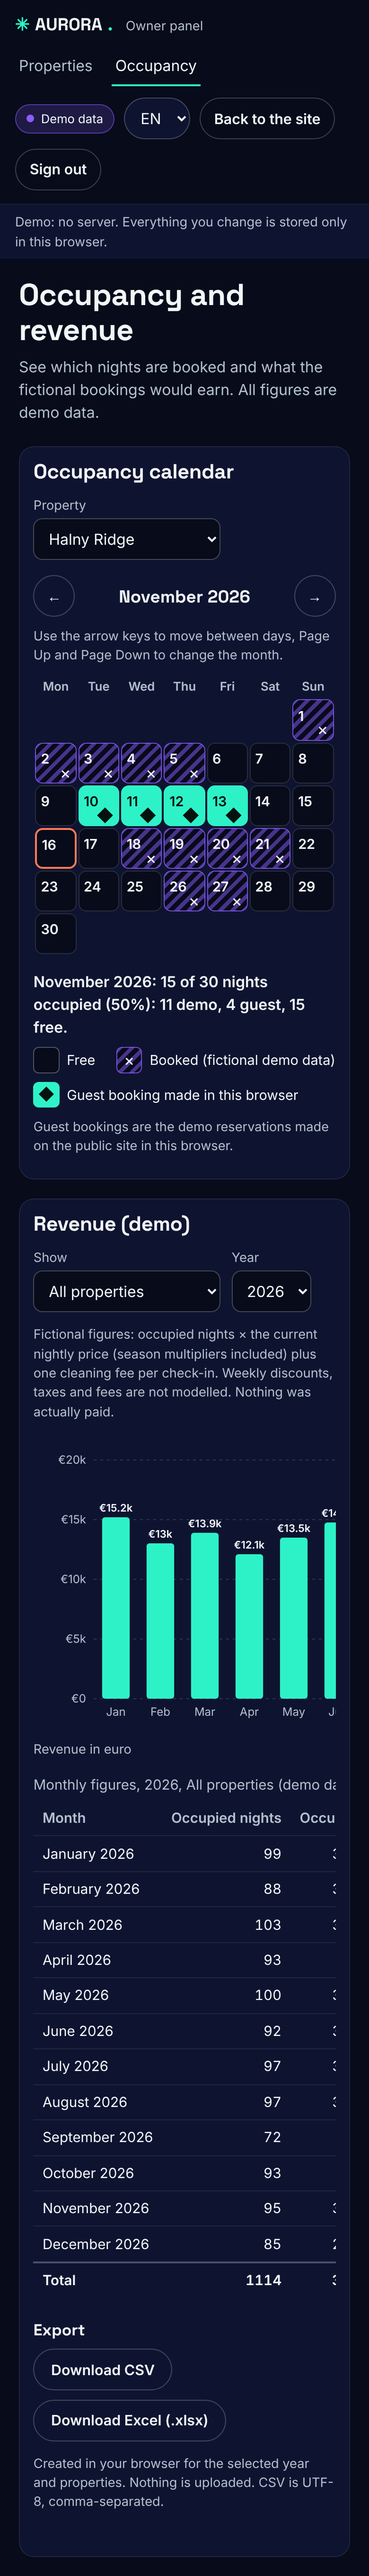
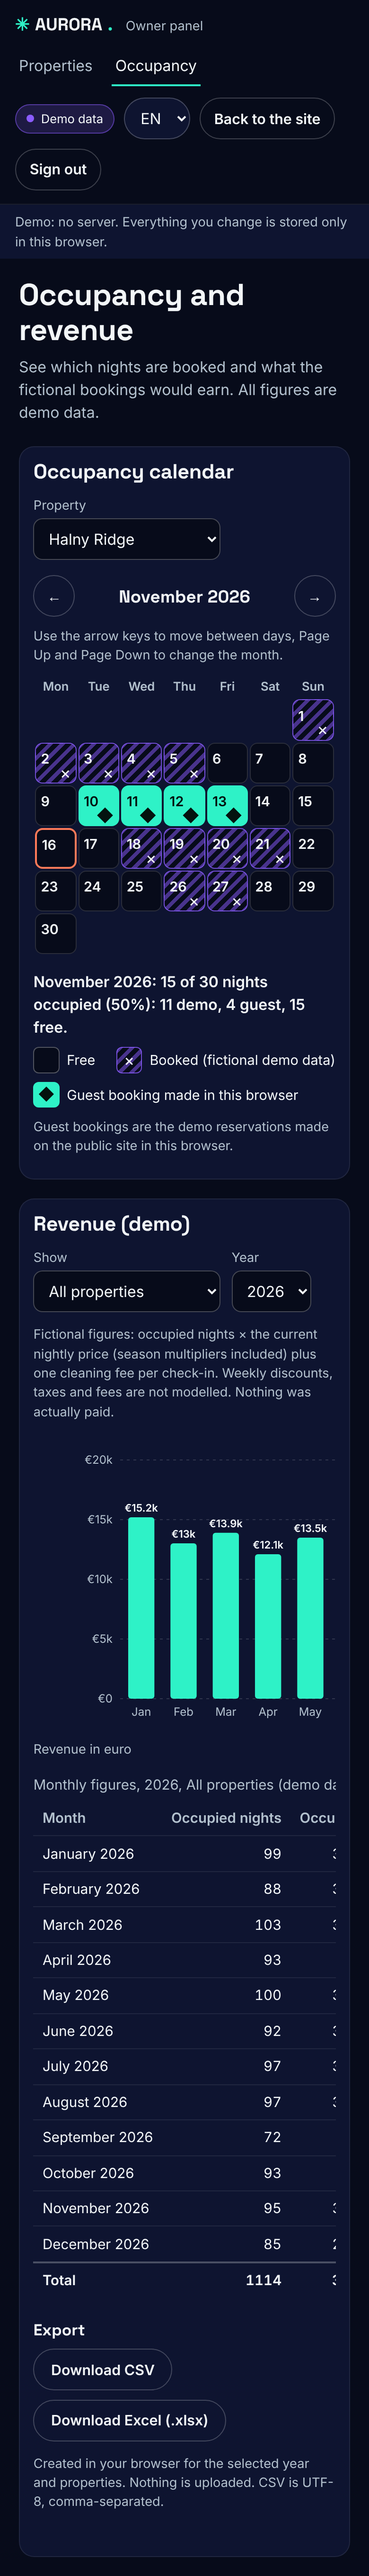
docs: final README (technologies, architecture), validation checklist, Lighthouse; fix chart label clipping
Claude-Session: https://claude.ai/code/session_01LrAHejfKaRSWVq6ha1feSK

Changed region(s): [[0.2769, 0.5594, 0.9231, 0.6837]]

diff --git a/apps/admin/src/app/features/occupancy/revenue.ts b/apps/admin/src/app/features/occupancy/revenue.ts
@@ -22,7 +22,7 @@ import { OwnerStore } from "../../core/owner-store";
 /** Chart geometry in SVG user units; the picture scales with its container. */
 const W = 640;
 const H = 320;
-const M = { left: 64, right: 12, top: 28, bottom: 40 };
+const M = { left: 92, right: 12, top: 28, bottom: 40 };
 
 interface Bar {
   month: string;

diff --git a/README.md b/README.md
@@ -6,26 +6,47 @@ A fictional travel-platform concept by Andrii Tsap. **Concept / demo project —
 
 ![Night Atlas desktop](docs/visual-reviews/stage-1/hero-1440.png)
 
-Implemented so far: landing page with a 3D globe, filterable catalogue with map, property pages, a 3D cabin studio, and a fully demo booking flow (stages 0–3), in EN/PL/UA. There is no backend: all data is fictional and bookings live in the visitor's browser. An Angular owner panel (demo mode, no backend) lives at `/aurora/admin/`; see the status list below.
+A browsable demo of a stays-booking platform: landing with a 3D globe, a filterable catalogue with a map, property pages with a code-built 3D cabin, a full demo booking flow (test cards only, PDF voucher with QR, guest account, favourites) and an Angular owner panel at [`/admin/`](https://andriu-tsap.github.io/aurora/admin/). EN / PL / UA. There is no backend: all data is fictional and everything the visitor does stays in their own browser (`localStorage`).
 
-## Local development
+## Technologies
 
-Node 22+ and pnpm 11.25:
+| Area | Technology | Where |
+| --- | --- | --- |
+| Public site | Next.js 15 (static export), React 19, strict TypeScript, custom CSS (tokens "Night Atlas") | `apps/web` |
+| 3D | Three.js via React Three Fiber / drei: globe and a code-built A-frame cabin (~79k triangles, PBR, soft shadows) | `apps/web` |
+| Map | MapLibre GL with OpenFreeMap tiles | `apps/web` |
+| Booking (demo) | availability and price quote logic, test-card payment form, PDF voucher with vector QR (pdf-lib), confetti, email preview | `apps/web`, `packages/demo-data` |
+| Owner panel | Angular 22 (standalone components, signals, zoneless), hash routes, own i18n | `apps/admin` |
+| Panel features | property CRUD with photo compression, occupancy calendar (keyboard accessible), SVG revenue chart, CSV and Excel export | `apps/admin` |
+| Shared logic | pure TypeScript with unit tests (Vitest, 67 tests) | `packages/demo-data`, `packages/types` |
+| Languages | EN / PL / UA, typed message files | `apps/web`, `apps/admin` |
+| Tests | Playwright e2e (35 tests), Vitest, Lighthouse (report only) | `tests`, `scripts` |
+| Build and deploy | pnpm + Turborepo, GitHub Actions, GitHub Pages (one artifact serves the site and the panel) | `.github/workflows` |
 
-```sh
-pnpm install
-pnpm dev
+## Architecture
+
+```mermaid
+flowchart LR
+  V[Visitor] --> W[Next.js static site /aurora/]
+  O[Owner] --> A[Angular panel /aurora/admin/]
+  W --> D[(packages/demo-data<br/>fictional stays, availability, pricing)]
+  A --> D
+  W -- booking result --> LS[(localStorage<br/>aurora-bookings, aurora-favorites)]
+  A -- read only --> LS
+  A -- owner edits --> AS[(localStorage<br/>aurora-admin-state)]
+  W --> M[MapLibre + OpenFreeMap]
+  W --> T[Three.js globe and cabin]
 ```
 
-```sh
-NEXT_PUBLIC_BASE_PATH=/aurora pnpm build
-pnpm lint
-pnpm typecheck
-pnpm exec playwright install chromium
-pnpm test:e2e
-```
+The public site and the panel share the same demo data package. The panel never changes the public site; it only reads the demo bookings made in the same browser.
 
-`apps/web/out/` is the complete static Pages artifact. Paths include `/aurora`. The repository's Pages workflow uploads that folder. Browser tests serve it under the same prefix. The separate Visual QA workflow captures screenshots and a Lighthouse report; it never blocks the Pages deployment.
+## What is not in this version
+
+Stages 4, 6 and 7 were deliberately left out, so the project makes no claim about them: a Node.js API with PostgreSQL, real payments and WebSocket (4), a Python service and a Telegram bot (6), a WordPress plugin, an embeddable availability widget, an AI trip planner and a PWA (7). Everything shown as payment, email or notification is a demo and says so on screen.
+
+## Measured quality (local, report only)
+
+Lighthouse mobile, 2026-11-16: home 98 / 100 / 100 / 100, catalogue 95 / 100 / 100 / 100, property page 99 / 100 / 100 / 100, 3D cabin 97 / 100 / 100 / 100, owner panel 99 / 100 / 100 / 60 (SEO is low by design: a demo panel that should not be indexed). Order: performance / accessibility / best practices / SEO. Full results, and what was not verified, are in [docs/VALIDATION.md](docs/VALIDATION.md).
 
 ## Structure
 
@@ -48,10 +69,10 @@ Mobile, reduced-motion and data-saver visitors receive the pre-rendered WebP geo
 | 2 | Catalogue, map, property pages, 3D cabin | ✅ |
 | 3 | Booking calendar and quote, demo payment, PDF voucher with QR, guest account, favourites | ✅ accepted |
 | 4 | Node.js server, PostgreSQL, real Stripe, WebSocket | ❌ not implemented in this version |
-| 5 | Angular 22 owner panel at `/admin/` (demo mode, no backend): 5.1–5.3 accepted, 5.4 (e2e 35/35, screenshots, docs) done, awaiting the owner's "OK" | ⏳ |
+| 5 | Angular 22 owner panel at `/admin/` (demo mode, no backend) | ✅ accepted |
 | 6 | Python service, Telegram bot | ❌ not implemented in this version |
 | 7 | WordPress plugin, `<aurora-availability>` widget, AI planner, PWA | ❌ not implemented in this version |
-| 8 | Final README, validation checklist, Lighthouse, ZIP | ⏳ planned (shortened) |
+| 8 | Final README, validation checklist, Lighthouse, ZIP | ✅ shortened version done |
 
 Final handoff after the accepted stages: one source ZIP excluding dependencies/secrets/caches, prebuilt public and admin exports, a per-feature honest status checklist, screenshots and measured Lighthouse reports.
 

diff --git a/CLAUDE.md b/CLAUDE.md
@@ -19,7 +19,7 @@ AURORA — fictional booking platform for unique stays (glamping, mountain cabin
   - 5.1 ✅ shell, demo login (flag in `sessionStorage`), i18n EN/PL/UA, properties list, price editing.
   - 5.2 ✅ add/edit property form, photos with drag & drop + compression, restore demo, delete custom.
   - 5.3 ✅ accepted (route `/occupancy`, nav link "Occupancy"): month calendar per property, SVG revenue chart + table, CSV and Excel export. Bug fixed in `fd90cb1` by the owner's assistant: `/occupancy` was wider than the screen at 390/360 px (grid track grew to the chart's min-width) → `minmax(0,1fr)` + `min-width:0`. Keep it fixed.
-  - 5.4 ✅ implemented and run (2026-11-16): `tests/admin.spec.ts` (8 tests), full e2e 35/35, 16 new screenshots, Lighthouse `/admin/` 99/100/100/60 (report only). Waiting for the owner's "OK". Known visual issue: at 390 px the revenue chart scrolls inside its block and its left Y-axis labels are clipped. Then shortened stage 8; do not start it until the owner writes "OK".
+  - 5.4 ✅ implemented and run (2026-11-16): `tests/admin.spec.ts` (8 tests), full e2e 35/35, 16 new screenshots, Lighthouse `/admin/` 99/100/100/60 (report only). Accepted by the owner 2026-11-16. Chart Y-label clipping fixed in stage 8.
   - Admin e2e notes: the panel is served at `/aurora/admin/` with hash routes (`admin/#/properties`, `#/properties/new`, `#/occupancy`); no WebGL. `beforeEach` calls `page.clock.setFixedTime(2026-11-16)` (freezes only `Date`) so the calendar opens on November 2026. Useful hooks: `demo-login`, `demo-badge`, `property-list`, `[data-slug]` rows with `#price-<slug>`, `stay-form`, `save-stay`, `photo-input`, `photo-list`, `cal-grid` (cells carry `data-date` / `data-state`), `cal-summary`, `cal-month`, `cal-property`, `export-csv`, `export-status`; storage keys `aurora-admin-state`, `aurora-admin-session` (sessionStorage), `aurora-locale`, `aurora-bookings`. Guest-booking test injects a `Booking` into `aurora-bookings` and reloads (the `storage` event only fires in other tabs). Photo test builds a PNG in memory (`tests/support/png.ts`). Capture screenshots: `node scripts/serve-static.mjs &` then `PW_CHROMIUM_PATH=… node scripts/capture-stage5.mjs`.
   - 5.3 design notes: pure logic lives in `packages/demo-data/src/occupancy.ts` (grid, night state, month stats, `navigateDate` keyboard rules, revenue by month, axis scale, `parseBookings`) and `export.ts` (CSV escaping with formula-injection guard, BOM + CRLF, report lines); both unit-tested. UI in `apps/admin/src/app/features/occupancy/` (`calendar`, `revenue`, `occupancy`); `core/guest-bookings.ts` only reads `aurora-bookings` (same origin as the public site); `core/files.ts` builds downloads. Occupied night = fictional busy night (`busyNightsForSlug`) or confirmed guest booking; the guest booking wins. Revenue model (stated in the UI): occupied nights × the owner's *current* nightly price with season multipliers, plus one cleaning fee per check-in; weekly discounts, taxes and fees are not modelled; every export row carries "Demo data (fictional)". Data covers 2026-01 … 2027-12 (`DEMO_FIRST_MONTH`/`DEMO_LAST_MONTH`).
   - xlsx: `write-excel-file@4` via the `write-excel-file/universal` entry (no Web Workers), imported with a dynamic `import()` only on click, so it is a separate lazy chunk. Do not use the npm `xlsx` package (0.18.5 is unmaintained on npm and has known advisories).
@@ -36,10 +36,10 @@ AURORA — fictional booking platform for unique stays (glamping, mountain cabin
 - 2 ✅ catalogue, map, property page, 3D cabin
 - 3 ✅ accepted: booking, demo payment (test cards), PDF voucher + QR, guest account, favourites
 - 4 ❌ not implemented in this version: Node API, PostgreSQL, real Stripe, WebSocket
-- 5 ⏳ all steps implemented, waiting for the owner's "OK": Angular owner panel in demo mode at `/aurora/admin/` (no backend, data from `packages/demo-data` + `localStorage`); 5.1 ✅, 5.2 ✅, 5.3 ✅, 5.4 ✅ run, awaiting the owner's "OK"
+- 5 ✅ accepted (owner OK 2026-11-16): Angular owner panel in demo mode at `/aurora/admin/` (no backend, data from `packages/demo-data` + `localStorage`); 5.1 ✅, 5.2 ✅, 5.3 ✅, 5.4 ✅
 - 6 ❌ not implemented in this version: Python service, Telegram bot
 - 7 ❌ not implemented in this version: WordPress plugin, `<aurora-availability>` widget, AI planner, PWA
-- 8 ⏳ shortened: README tech table + Mermaid architecture, VALIDATION checklist, Lighthouse, full test run, final ZIP
+- 8 ✅ shortened version done (2026-11-16): README tech table + Mermaid, VALIDATION checklist, Lighthouse, full test run; final ZIP built by the owner's assistant
 
 Do not start the next stage (or step) until the current one works, is deployed, and the owner wrote "OK". No TODOs in deployed code.
 

diff --git a/docs/VALIDATION.md b/docs/VALIDATION.md
@@ -116,7 +116,7 @@ Status: 5.1–5.3 accepted; 5.4 (e2e, screenshots, docs) implemented and run in 
 
 - Opening the .xlsx / CSV in Excel itself (Polish regional settings), screen readers, real phones, Safari/Firefox, the deployed site for this commit (the sandbox cannot reach github.io).
 - Drag & drop with a mouse (only file-picker input was tested); the message for a non-image file was not read.
-- Known visual issue (not fixed): at 390 px (UA) the revenue chart is wider than the screen and scrolls inside its own block; the left Y-axis labels ("тис. EUR") are clipped. The page itself does not scroll horizontally.
+- At 390 px the revenue chart scrolls inside its own block (by design); its clipped Y-axis labels in UA were fixed in stage 8.
 - Admin SEO 60 is expected for a demo panel (no meta description / not meant to be indexed).
 
 ### Scope of the new admin tests (`tests/admin.spec.ts`)
@@ -131,3 +131,32 @@ Status: 5.1–5.3 accepted; 5.4 (e2e, screenshots, docs) implemented and run in 
 8. 390 px: no horizontal page scroll on `#/properties`, `#/properties/new`, `#/occupancy`.
 
 The tests need no WebGL and no network. `Date` is frozen to 2026-11-16 (timers keep running).
+
+
+## Final checklist — stage 8 (2026-11-16)
+
+Legend: ✅ verified by a real run in this project; ⚠ partly verified or limited; ❌ not implemented in this version.
+
+| Feature | Status | Evidence / limit |
+| --- | --- | --- |
+| Landing with 3D globe, fallback poster, EN/PL/UA | ✅ | e2e hero tests; Lighthouse home 98/100/100/100 |
+| Catalogue, filters, map | ✅ | e2e catalogue tests; map style stubbed offline in tests, live tiles not checked in CI |
+| Property page, 3D cabin | ✅ | e2e; ~78.7k triangles measured; software WebGL only, real GPUs not tested |
+| Booking, quote, test-card payment (demo) | ✅ | e2e; only test cards, no real payment |
+| PDF voucher with QR, EN/PL/UA | ⚠ | generated and inspected in the sandbox; not opened in every PDF reader |
+| Guest account, favourites | ✅ | e2e |
+| Owner panel: login, price edit, property CRUD, photos | ✅ | e2e (8 tests) and manual browser checks; drag & drop with a mouse not tested |
+| Occupancy calendar, revenue chart, CSV / Excel export | ⚠ | e2e for calendar and CSV; xlsx opened with openpyxl only, not in Excel |
+| Accessibility | ⚠ | Lighthouse a11y 100 on all pages, keyboard e2e for calendar and form; no screen-reader test |
+| Mobile 360 / 390 | ✅ | e2e checks for no horizontal page scroll |
+| Safari, Firefox, real phones | ❌ | not tested (Chromium only) |
+| Node API, PostgreSQL, real Stripe, WebSocket (stage 4) | ❌ | not implemented in this version |
+| Python service, Telegram bot (stage 6) | ❌ | not implemented in this version |
+| WordPress plugin, availability widget, AI planner, PWA (stage 7) | ❌ | not implemented in this version |
+
+### Final run (2026-11-16, local Chrome)
+
+- Unit 67/67, lint and typecheck clean, `NEXT_PUBLIC_BASE_PATH=/aurora` build passes, full Playwright suite 35/35.
+- Lighthouse mobile (performance / accessibility / best practices / SEO): home 98/100/100/100, `stays/` 95/100/100/100, `stays/halny-ridge/` 99/100/100/100, `cabin/` 97/100/100/100, `account/` 99/100/100/63, `admin/` 99/100/100/60. Low SEO on `account/` and `admin/` is by design (noindex demo pages). Scores are local and may differ on the live site.
+- Fixed in this step: the revenue chart's left margin was too small, so Y-axis labels were clipped in UA (checked: labels now start inside the chart in UA, PL and EN).
+- Not verified: the live GitHub Pages site for the final commit from this sandbox (github.io is not reachable here); check it by hand.

diff --git a/docs/visual-reviews/stage-5/README.md b/docs/visual-reviews/stage-5/README.md
@@ -21,6 +21,6 @@ The seven existing files come from earlier steps and are untouched. The 16 new f
 
 - [x] no horizontal page scroll at 390 px on list, form and occupancy (also asserted by an e2e test);
 - [x] "Demo data" badge visible (seen in the inspected image; asserted in e2e on login and after sign-in);
-- [~] UA text fits in the inspected image; **known issue**: the revenue chart is wider than the screen and scrolls inside its block, and its left Y-axis labels are clipped;
+- [~] UA text fits in the inspected image; the revenue chart scrolls inside its block on narrow screens (by design); its Y-axis labels were clipped at first and were fixed in stage 8, the screenshots were re-captured afterwards;
 - [x] calendar shows free, demo-busy (hatching + ×) and guest (solid + ◆) states, with a text legend;
 - [ ] focus outlines in screenshots: not checked.
